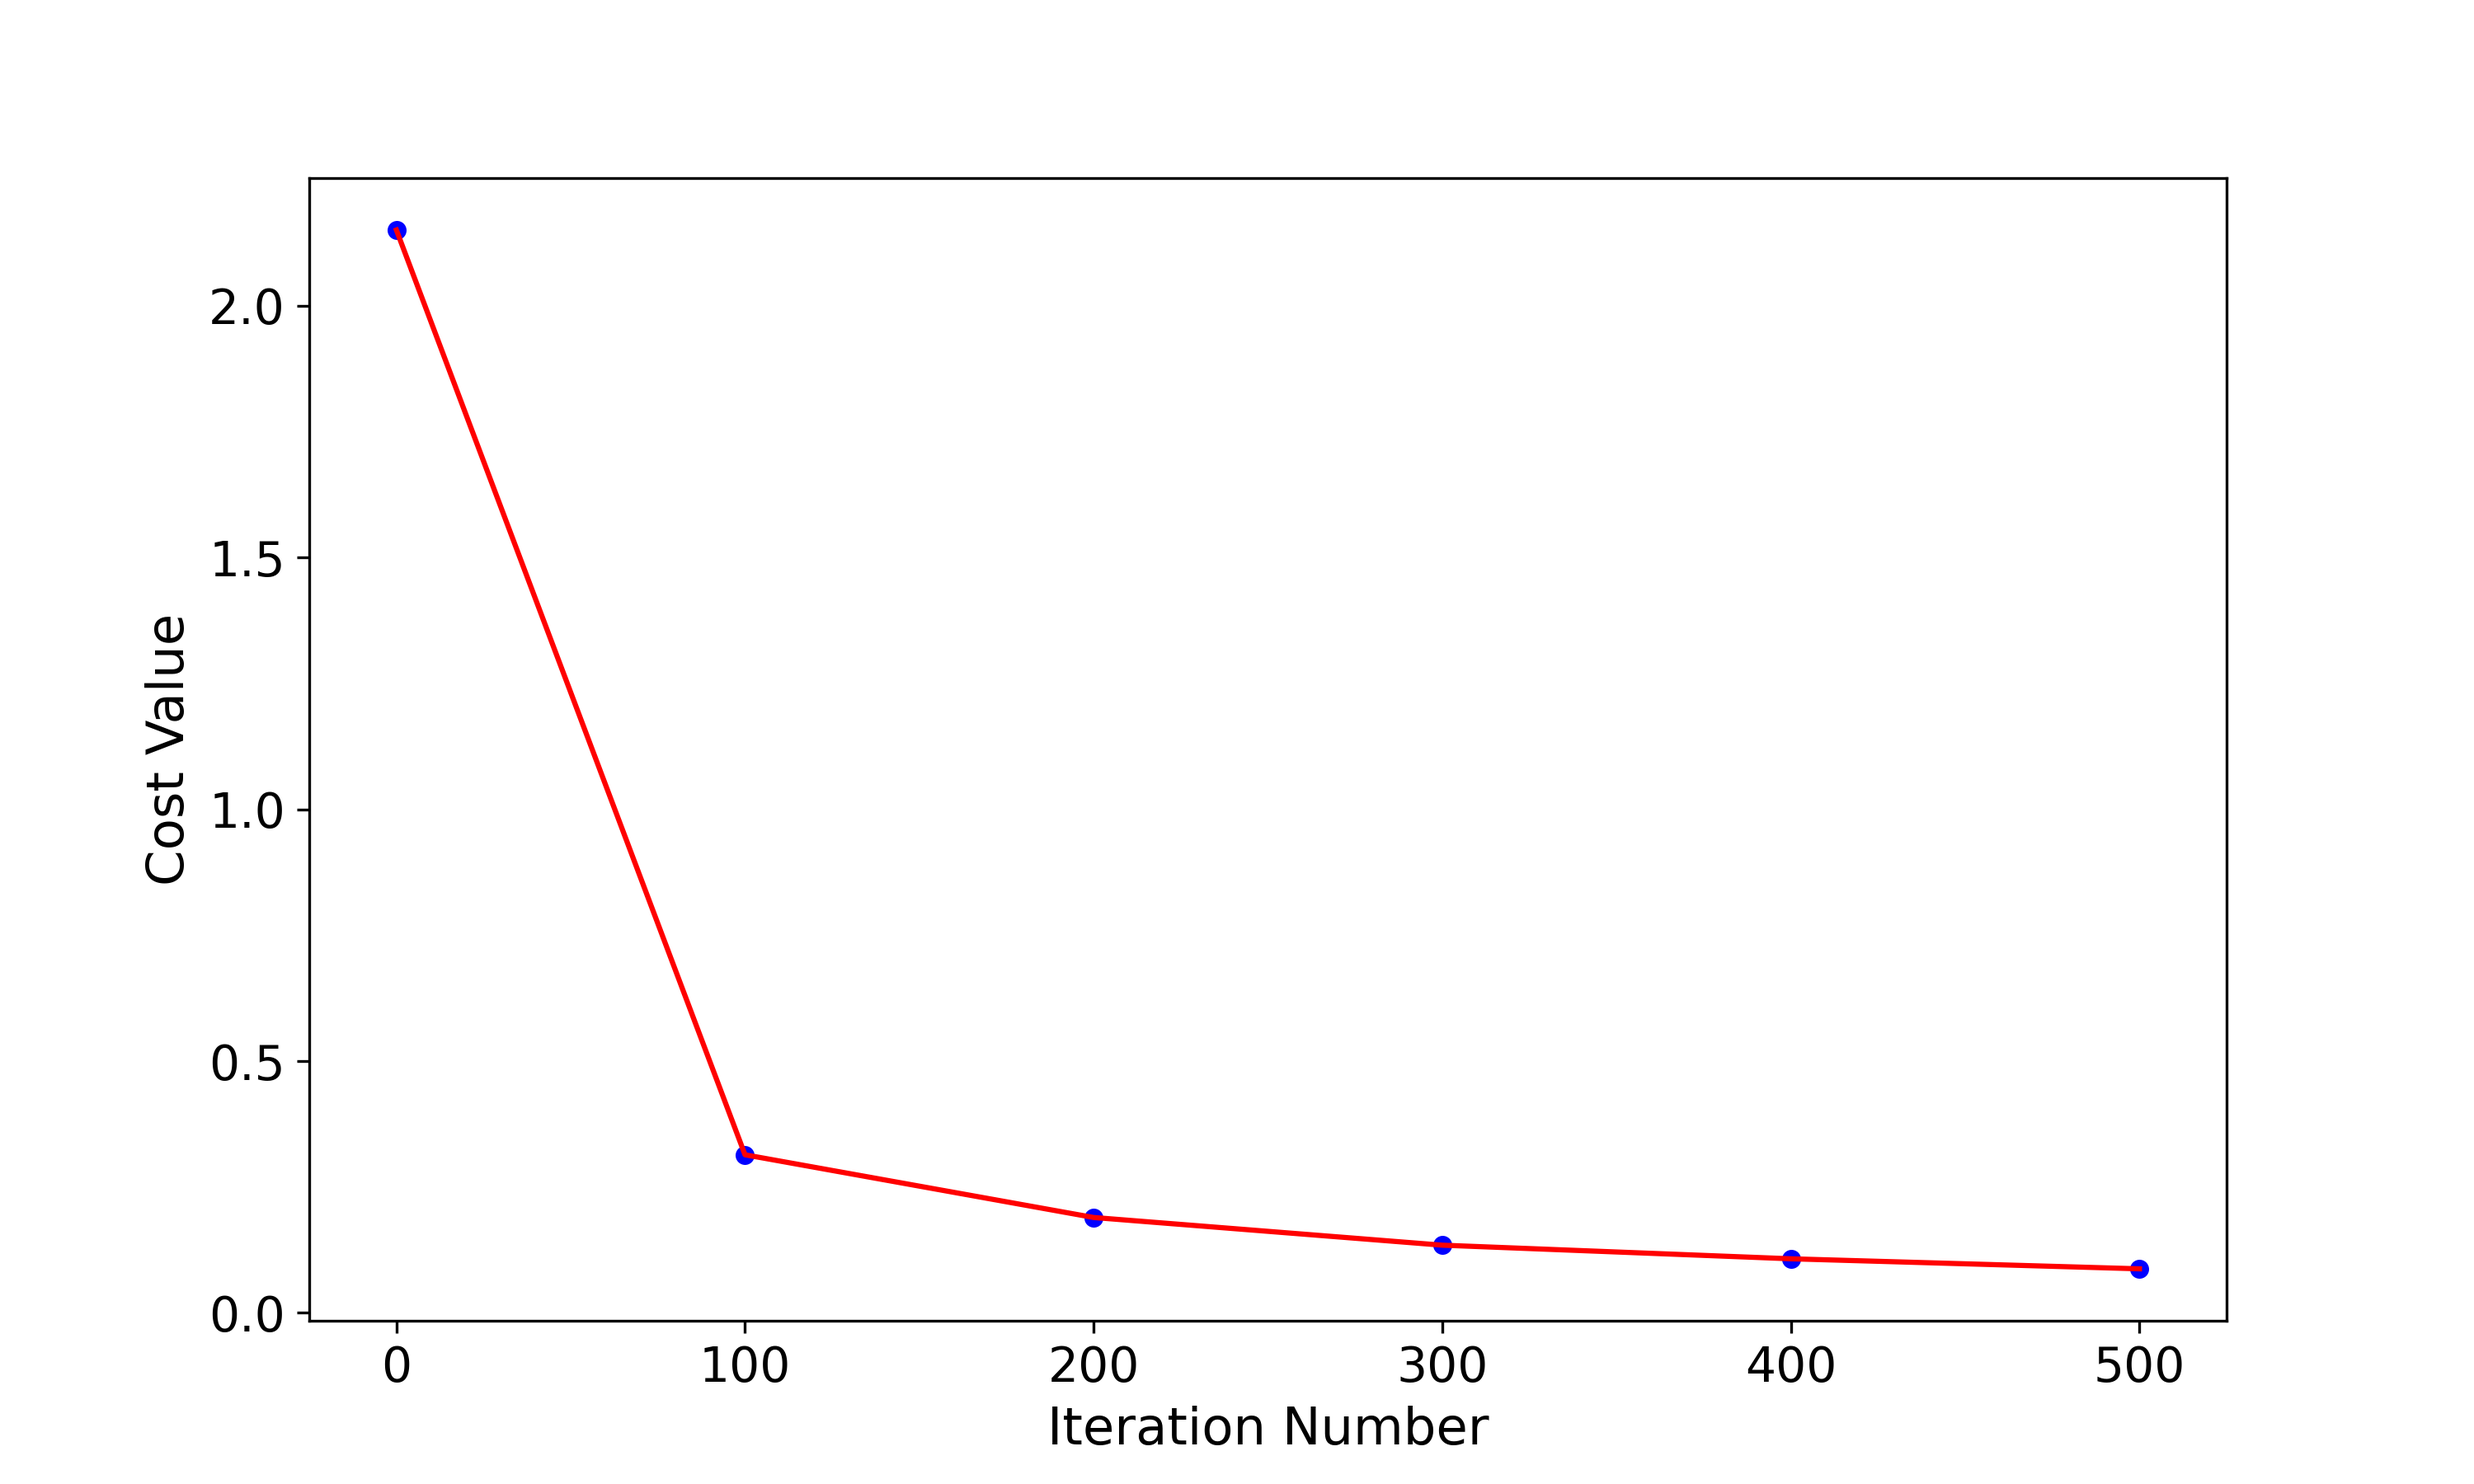
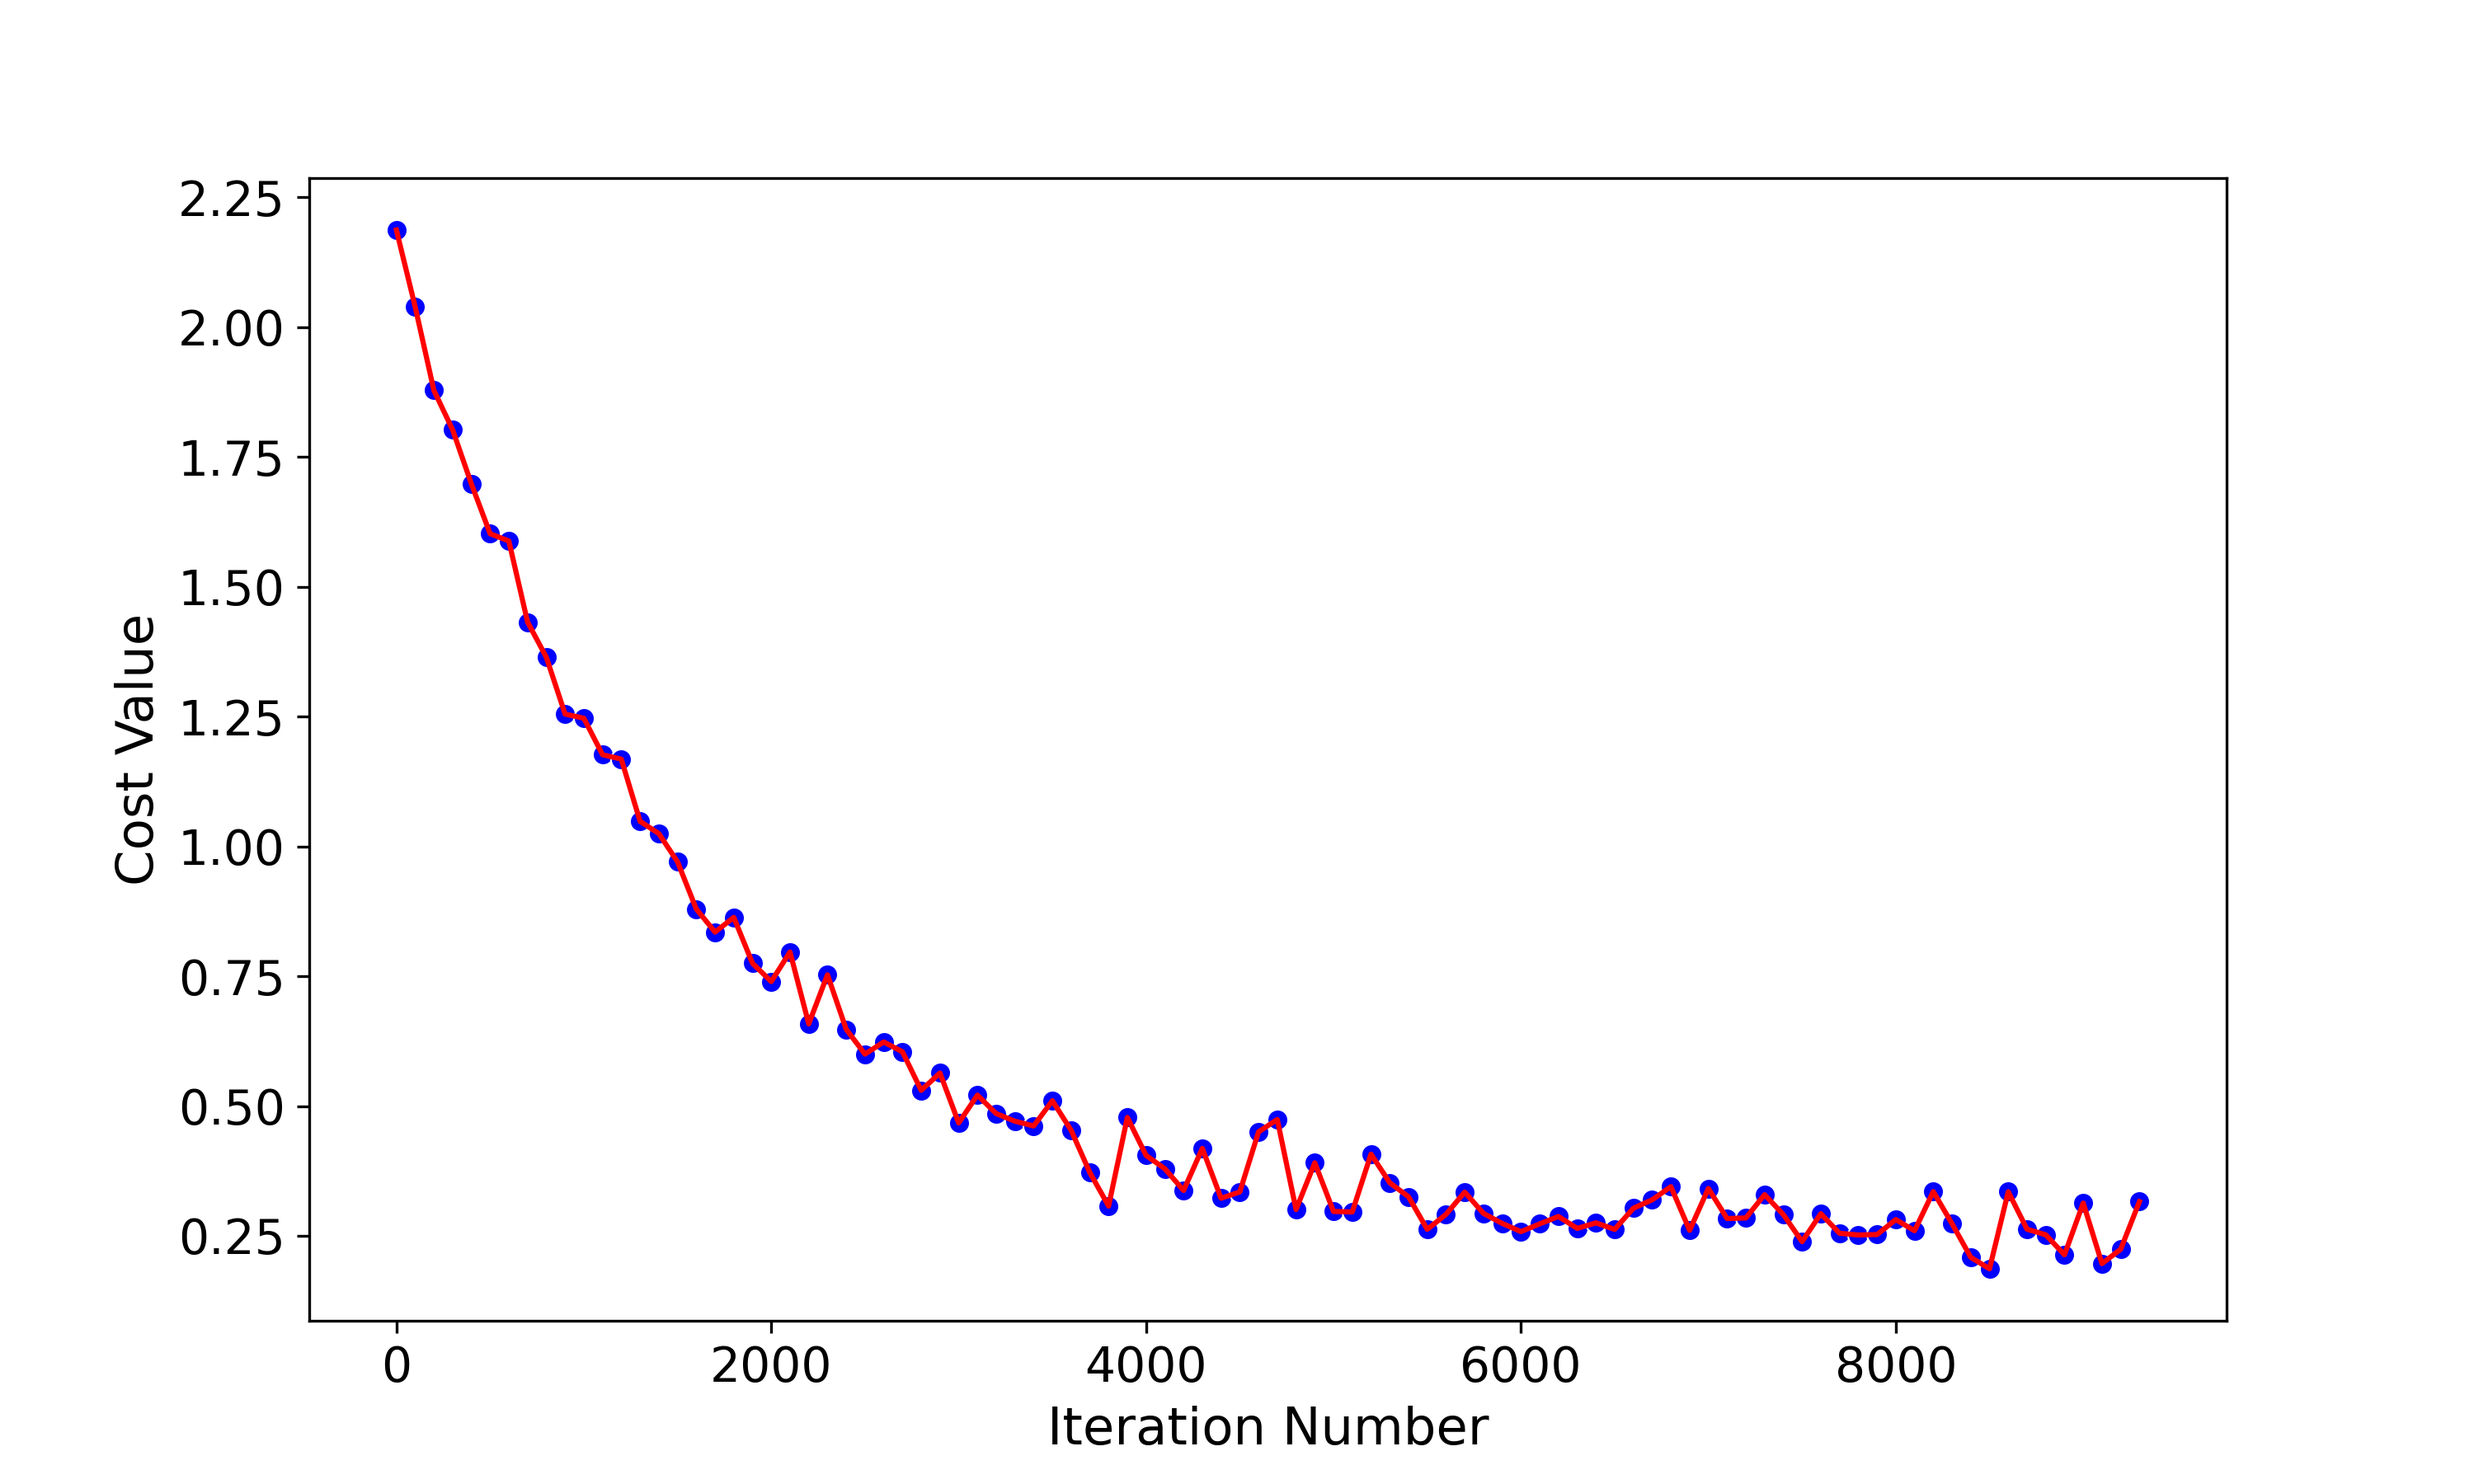
update l_layer_model function

diff --git a/model.py b/model.py
@@ -417,6 +417,7 @@ def L_layer_model(X, Y, layer_dims, learning_rate, num_iterations, batch_size, u
     best_val_cost=float('inf')
     m = X.shape[0]  # number of examples
     parameters = initialize_parameters(layer_dims)
+    iteration_counter = 0  # Total number of iterations
 
     # Loop (gradient descent)
     for i in range(num_iterations):
@@ -440,28 +441,29 @@ def L_layer_model(X, Y, layer_dims, learning_rate, num_iterations, batch_size, u
             # Update parameters.
             parameters = update_parameters(parameters, grads, learning_rate)
         
+            iteration_counter += 1
         # Print the cost every 100 training iterations
-        if i % 100 == 0:
-            # Training performance
-            AL_train, _ = L_model_forward(X, parameters, use_batchnorm)
-            train_cost =cost
-            train_acc = compute_accuracy(AL_train, Y)
-            
-            # Validation performance
-            AL_val, _ = L_model_forward(X_val, parameters, use_batchnorm)
-            val_cost = compute_cost_validation(AL_val, Y_val)
-            val_acc = compute_accuracy(AL_val, Y_val)
+            if iteration_counter % 100 == 0:
+                # Training performance
+                AL_train, _ = L_model_forward(X, parameters, use_batchnorm)
+                train_cost =cost
+                train_acc = compute_accuracy(AL_train, Y)
+                
+                # Validation performance
+                AL_val, _ = L_model_forward(X_val, parameters, use_batchnorm)
+                val_cost = compute_cost_validation(AL_val, Y_val)
+                val_acc = compute_accuracy(AL_val, Y_val)
 
-            # Append to lists
-            costs.append(train_cost)
+                # Append to lists
+                costs.append(train_cost)
 
-            print(f"Iter {i}: Train Cost: {train_cost:.6f}, Val Cost: {val_cost:.6f}, Train Acc: {train_acc:.2f}%, Val Acc: {val_acc:.2f}%")
+                print(f"Iter {iteration_counter} and epoch {i}: Train Cost: {train_cost:.6f}, Val Cost: {val_cost:.6f}, Train Acc: {train_acc:.2f}%, Val Acc: {val_acc:.2f}%")
 
-            # Early stopping
-            if val_cost > best_val_cost:
-                print("Stopping early due to increase in validation cost.")
-                break
-            best_val_cost = val_cost
+                # Early stopping
+                if val_cost > best_val_cost:
+                    print("Stopping early due to increase in validation cost.")
+                    return parameters, costs
+                best_val_cost = val_cost
             
     return parameters, costs
 

diff --git a/main.py b/main.py
@@ -25,29 +25,30 @@ X_test,y_test=process_data(X_test,y_test)
 #initilize model
 layer_dims=[X_train.shape[1],20,7,5,10]
 learning_rate=0.009
-num_iterations=3000
+num_iterations=10000
 batch_size=512
 params,costs=L_layer_model(X_train, y_train, layer_dims, learning_rate, num_iterations, batch_size, use_batchnorm=False)
 Predict(X_test,y_test,params)
 
-# import pandas as pd
-# import matplotlib.pyplot as plt
-# import seaborn as sns
-# df=pd.DataFrame({'cost':costs})
-# df["iteration"]=df.index*100
-# # Create scatter plot
-# plt.figure(figsize=(10, 6))
-# sns.scatterplot(data=df, x='iteration', y='cost', color='blue')  # Scatter plot of points
+import pandas as pd
+import matplotlib.pyplot as plt
+import seaborn as sns
+df=pd.DataFrame({'cost':costs})
+df["iteration"]=df.index*100
+df.to_csv('output/result_q4.csv')
+# Create scatter plot
+plt.figure(figsize=(10, 6))
+sns.scatterplot(data=df, x='iteration', y='cost', color='blue')  # Scatter plot of points
 
-# # Connect the points with a line
-# plt.plot(df['iteration'], df['cost'], 'r-')  # 'r-' specifies a red solid line
+# Connect the points with a line
+plt.plot(df['iteration'], df['cost'], 'r-')  # 'r-' specifies a red solid line
 
-# # Set labels
-# plt.xlabel('Iteration Number',size=15)
-# plt.ylabel('Cost Value',size=15)
-# plt.xticks(size=14)
-# plt.yticks(size=14)
+# Set labels
+plt.xlabel('Iteration Number',size=15)
+plt.ylabel('Cost Value',size=15)
+plt.xticks(size=14)
+plt.yticks(size=14)
 
-# plt.savefig('plots/plot_cost_vs_iteration.png', dpi=300)  # Saves the figure to a PNG file with 300 DPI
+plt.savefig('plots/plot_cost_vs_iteration.png', dpi=300)  # Saves the figure to a PNG file with 300 DPI
 
-# plt.show()
+plt.show()
